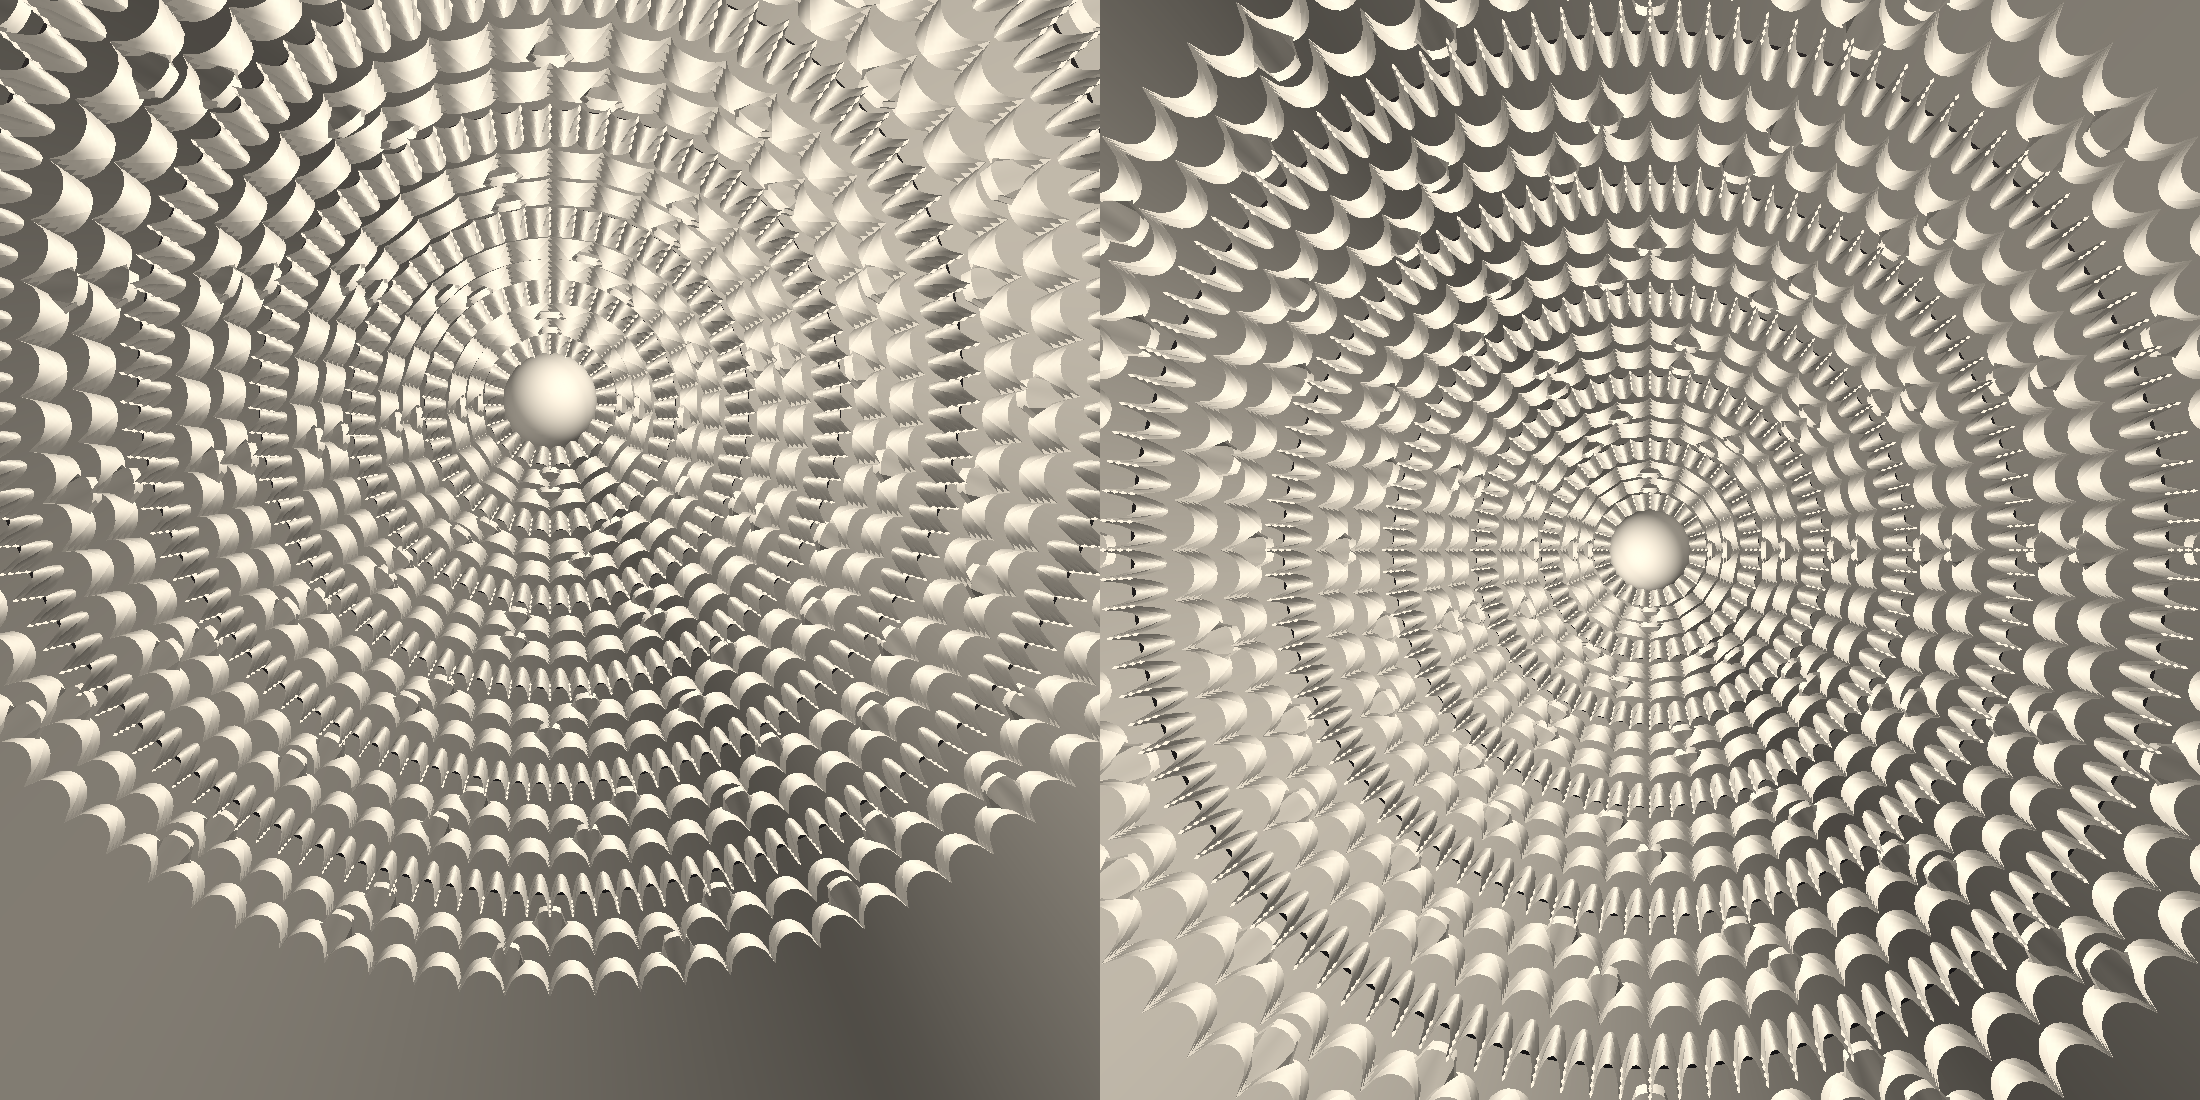
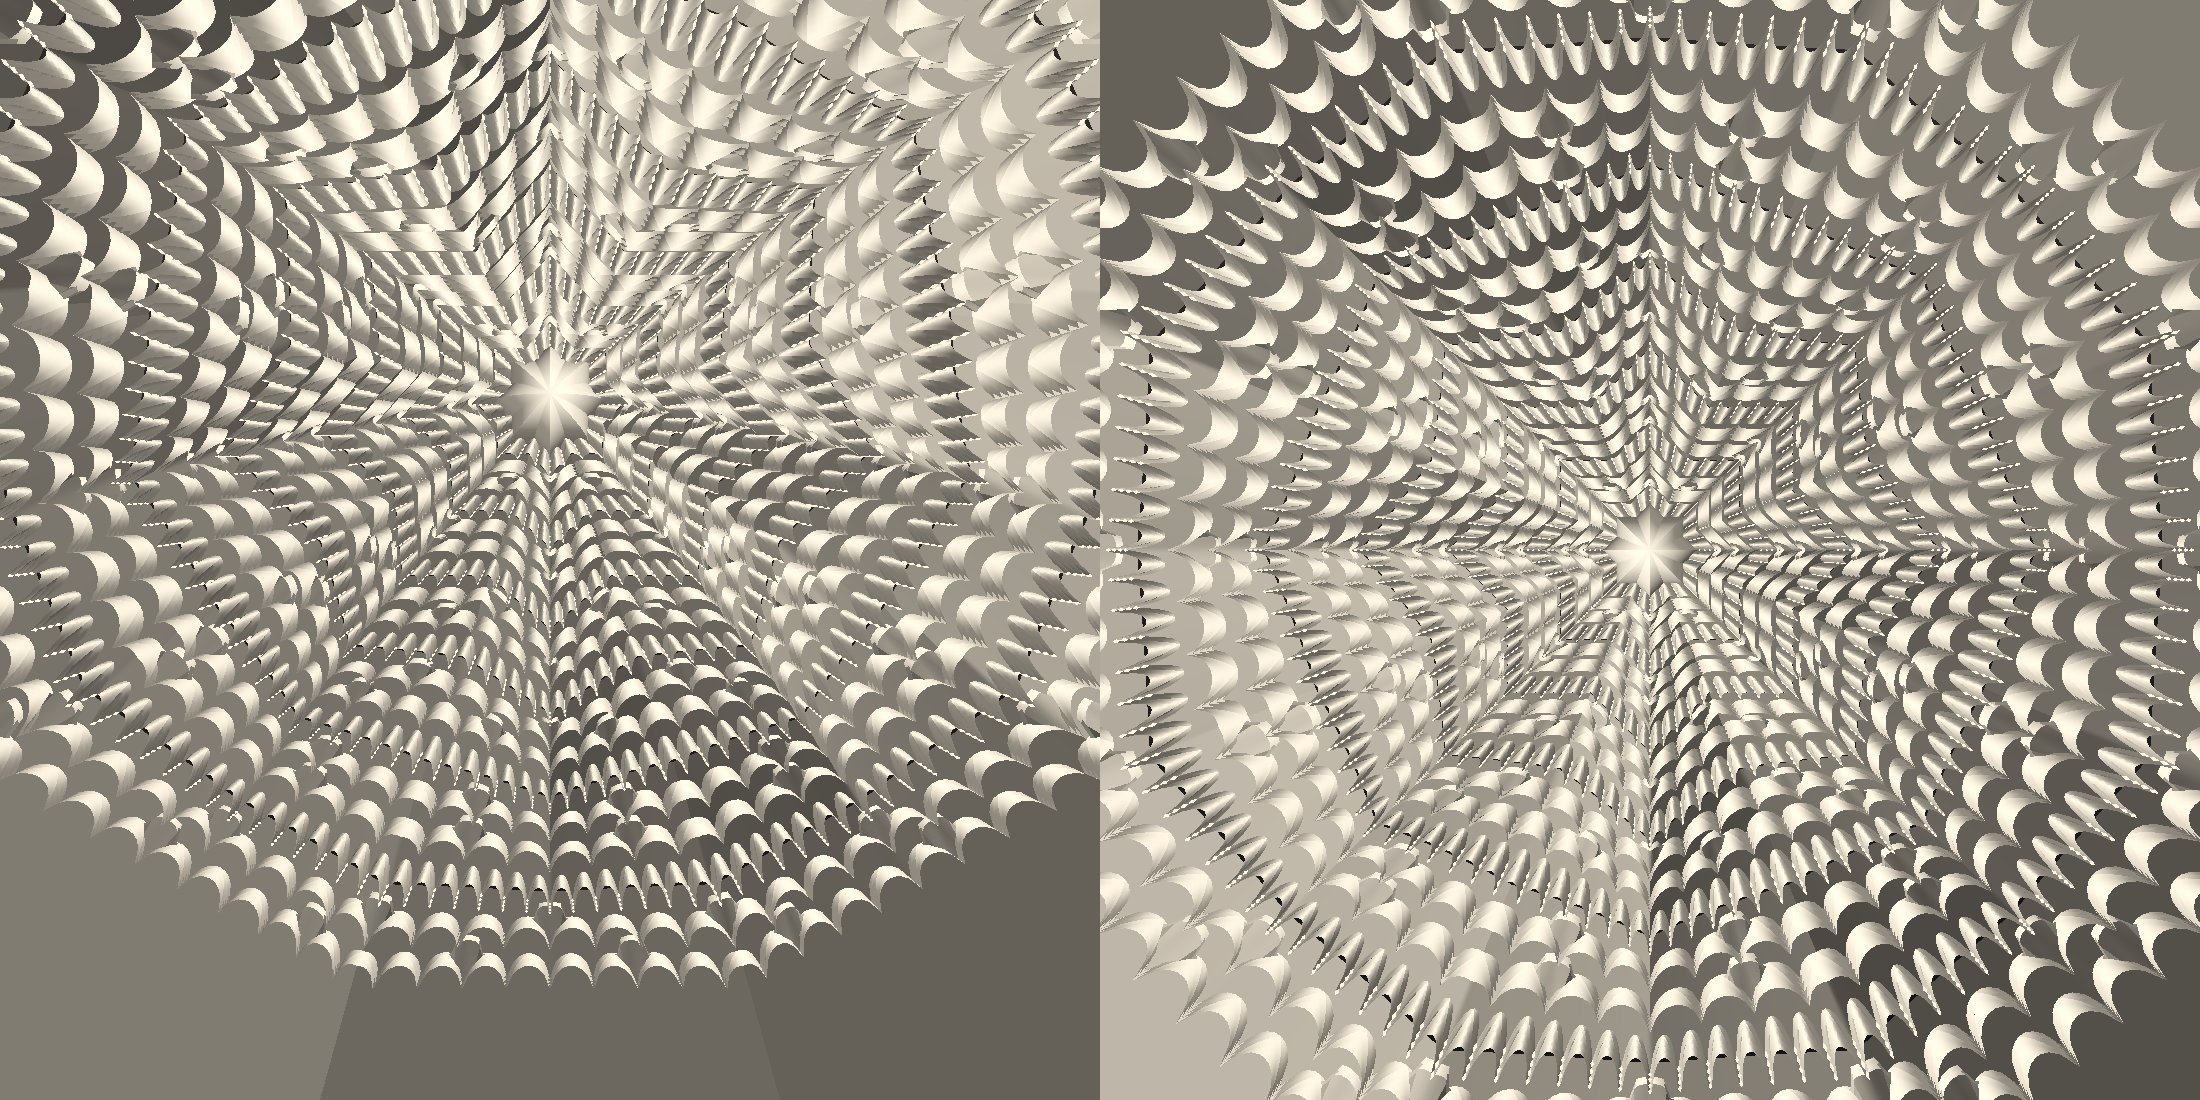
feat(cupula): planta del octogono a la estrella de ocho puntas
Cada hilada sigue el contorno r = F * g(phi, F): octogono de la sala en
el arranque (lados a 0 y 45 grados, ortoimagen AA-415_23) y estrella de
dos cuadrados en el cierre (puntas a 0 y 45, como los 8 medios cuadrados
de docs/teselado.md). La estrella se completa al 60 % del recorrido, a
ojo. Las piezas se colocan en (phi, F), repartidas por longitud de arco
en multiplos de 16, y la trasera de cada hilada sigue cayendo en el
frente de la anterior. Cupulilla y tambor siguen el mismo contorno.

1984 piezas. La forma de las hiladas intermedias no esta leida.

diff --git a/web/piezas.js b/web/piezas.js
@@ -16,7 +16,7 @@ const ESCENAS = {
   },
   cupula: {
     url: "../renders/cupula_piezas.obj",
-    subtitulo: "18 hiladas, 1792 piezas, sobre el cono medido",
+    subtitulo: "18 hiladas, 1984 piezas · del octógono a la estrella de 8 puntas",
     camara: [0, -6, -14], objetivo: [0, 0, 9],
   },
 };

diff --git a/granada/cupula.py b/granada/cupula.py
@@ -25,10 +25,20 @@ Modelo, declarado:
 - **la altura de nivel** de cada hilada es pendiente * fondo de su familia, para
   que el perfil sea el cono medido. La proporcion del grabado (paso 1,6 cateto)
   daria pendiente 2,26; las piezas salen mas bajas que en el dibujo de Jones;
-- en cada hilada el numero de piezas se redondea a multiplo de 8 y las piezas se
+- en cada hilada el numero de piezas se redondea a multiplo de 16 (orden 8 con
+  la alternancia intacta en cada sector) y las piezas se
   estiran a lo ancho lo necesario para cerrar la vuelta (`estiramiento`);
-- las piezas se curvan para seguir el anillo: el frente sobre la circunferencia
-  y la profundidad en radial. El oficio usa piezas rectas;
+- **la planta**: cada hilada sigue el contorno r = F * g(phi, F). En el
+  arranque g es el octogono de la sala (lados planos a 0 y 45 grados, como en la
+  ortoimagen de AA-415_23); en el cierre, la estrella de ocho puntas de dos
+  cuadrados, con las puntas a 0 y 45 grados como los 8 medios cuadrados de la
+  estrella central (`docs/teselado.md`, orbita C8). Entre ambos, mezcla en F
+  que completa la estrella al 60 % del recorrido (`ESTRELLA_COMPLETA`). La forma de las hiladas intermedias **no** esta leida de la cupula;
+- las piezas se colocan en coordenadas (phi, F): el frente sobre su contorno,
+  repartidas por longitud de arco, y la profundidad a lo largo de phi constante.
+  Asi la trasera de cada hilada cae exactamente en el frente de la anterior; a
+  cambio las piezas se tuercen donde el contorno no es perpendicular al radio.
+  El oficio usa piezas rectas;
 - la cupulilla de cierre y el tambor son superficies de relleno.
 """
 
@@ -38,6 +48,8 @@ import json
 import math
 from dataclasses import dataclass
 from pathlib import Path
+
+import numpy as np
 
 from granada.piezas import C22, R2, S22, Punto3, malla, pieza
 
@@ -58,6 +70,67 @@ RADIO_BASE = RADIO_BASE_M / CATETO_M
 
 RADIO_CIERRE = 2.2
 """Por debajo de este radio de frente no se pone otra hilada: se cierra."""
+
+MUESTRAS_CONTORNO = 2880
+
+ESTRELLA_COMPLETA = 0.6
+"""Fraccion del recorrido del arranque al cierre en la que la estrella ya esta
+formada del todo. A ojo sobre la ortoimagen, donde el trazado estrellado ocupa
+mas o menos el 60 % interior. La transicion es un smoothstep."""
+
+
+def _octogono(phi):
+    """Octogono de apotema 1 con lados planos mirando a 0, 45, 90... grados."""
+    u = np.mod(phi + math.pi / 8, math.pi / 4) - math.pi / 8
+    return 1.0 / np.cos(u)
+
+
+def _estrella(phi):
+    """Estrella de ocho puntas: union de dos cuadrados de apotema 1, girados 45
+    grados. Puntas a 0, 45, 90... grados; entrantes a 22,5."""
+    a = 1.0 / np.maximum(np.abs(np.cos(phi)), np.abs(np.sin(phi)))
+    b = 1.0 / np.maximum(np.abs(np.cos(phi - math.pi / 4)), np.abs(np.sin(phi - math.pi / 4)))
+    return np.maximum(a, b)
+
+
+_PHI = np.linspace(0, 2 * math.pi, MUESTRAS_CONTORNO, endpoint=False)
+_MEDIA_OCT = float(_octogono(_PHI).mean())
+_MEDIA_EST = float(_estrella(_PHI).mean())
+
+
+@dataclass(frozen=True)
+class Planta:
+    """Familia de contornos r = F * g(phi, F), con F el radio medio."""
+
+    radio_base: float
+    radio_cierre: float
+    estrella: bool = True
+
+    def mezcla(self, F):
+        if not self.estrella:
+            return np.zeros_like(np.asarray(F, dtype=float))
+        t = (self.radio_base - np.asarray(F, dtype=float)) / (self.radio_base - self.radio_cierre)
+        u = np.clip(t / ESTRELLA_COMPLETA, 0.0, 1.0)
+        return u * u * (3 - 2 * u)
+
+    def forma(self, phi, F):
+        if not self.estrella:
+            return np.ones_like(np.asarray(phi, dtype=float))
+        lam = self.mezcla(F)
+        return (1 - lam) * _octogono(phi) / _MEDIA_OCT + lam * _estrella(phi) / _MEDIA_EST
+
+    def punto(self, phi, F):
+        r = np.asarray(F) * self.forma(phi, F)
+        return r * np.cos(phi), r * np.sin(phi)
+
+    def arco(self, F):
+        """Tabla (longitud acumulada, phi) del contorno F, y su longitud."""
+        phi = np.append(_PHI, 2 * math.pi)
+        x, y = self.punto(phi, np.full_like(phi, F))
+        seg = np.hypot(np.diff(x), np.diff(y))
+        s = np.concatenate([[0.0], np.cumsum(seg)])
+        return s, phi, float(s[-1])
+
 
 SECUENCIA = ("A", "A", "C")
 CADA_A3 = 8
@@ -102,8 +175,16 @@ class Hilada:
         return fuera
 
 
-def plan_de_hiladas(radio_base: float = RADIO_BASE, secuencia=SECUENCIA) -> list[Hilada]:
-    """Radios, cotas y numero de piezas de cada hilada, de abajo arriba."""
+def planta_por_defecto(radio_base: float = RADIO_BASE, estrella: bool = True) -> Planta:
+    """La planta cuyo cierre es la ultima hilada que cabe con `RADIO_CIERRE`."""
+    circulo = plan_de_hiladas(radio_base, planta=Planta(radio_base, RADIO_CIERRE, False))
+    return Planta(radio_base, circulo[-1].radio_frente, estrella)
+
+
+def plan_de_hiladas(radio_base: float = RADIO_BASE, secuencia=SECUENCIA, planta: Planta | None = None) -> list[Hilada]:
+    """Radios medios, cotas y numero de piezas de cada hilada, de abajo arriba."""
+    if planta is None:
+        planta = planta_por_defecto(radio_base)
     hiladas = []
     cota = 0.0
     trasera = radio_base
@@ -114,8 +195,8 @@ def plan_de_hiladas(radio_base: float = RADIO_BASE, secuencia=SECUENCIA) -> list
         radio = trasera - f.fondo
         if radio < RADIO_CIERRE:
             break
-        exacto = 2 * math.pi * radio / f.paso_tangencial
-        n = max(8, 8 * round(exacto / 8))
+        exacto = planta.arco(radio)[2] / f.paso_tangencial
+        n = max(16, 16 * round(exacto / 16))
         paso = PENDIENTE * f.fondo
         hiladas.append(Hilada(k, nombre, radio, cota, paso, n, exacto / n))
         cota += paso
@@ -138,19 +219,35 @@ def doblar(V, angulo: float, radio: float, estiramiento: float, cota: float) -> 
     return fuera
 
 
-def _cupulilla(radio: float, cota: float, paso: float, n: int = 96, m: int = 16):
-    """Casquete que cierra el hueco central, abierto hacia abajo."""
+def en_contorno(V, planta: Planta, radio: float, arco, inicio: float, estiramiento: float, cota: float):
+    """Del marco local de la pieza a la hilada de radio medio `radio`.
+
+    x pasa a longitud de arco sobre el contorno desde `inicio`; y (hacia el
+    frente) a F = radio - y, con phi constante; z sube `cota`.
+    """
+    s_tabla, phi_tabla, largo = arco
+    P = np.asarray(V, dtype=float)
+    s = np.mod(inicio + P[:, 0] * estiramiento, largo)
+    phi = np.interp(s, s_tabla, phi_tabla)
+    F = radio - P[:, 1]
+    x, y = planta.punto(phi, F)
+    return list(zip(x.tolist(), y.tolist(), (P[:, 2] + cota).tolist()))
+
+
+def _cupulilla(planta: Planta, radio: float, cota: float, paso: float, n: int = 192, m: int = 16):
+    """Casquete con la planta del ultimo contorno, abierto hacia abajo."""
     V: list[Punto3] = []
     F = []
     arranque = cota + paso * 0.875
     alto = 0.9 * radio
+    phi = 2 * math.pi * np.arange(n) / n
+    borde = radio * planta.forma(phi, np.full(n, radio))
     for j in range(m + 1):
         t = j / m * math.pi / 2
-        r = radio * math.cos(t)
         z = arranque + alto * math.sin(t)
         for i in range(n):
-            a = 2 * math.pi * i / n
-            V.append((r * math.cos(a), r * math.sin(a), z))
+            r = borde[i] * math.cos(t)
+            V.append((r * math.cos(phi[i]), r * math.sin(phi[i]), z))
     for j in range(m):
         for i in range(n):
             a, b = j * n + i, j * n + (i + 1) % n
@@ -160,13 +257,15 @@ def _cupulilla(radio: float, cota: float, paso: float, n: int = 96, m: int = 16)
     return V, F
 
 
-def _tambor(radio: float, abajo: float, arriba: float, n: int = 192):
+def _tambor(planta: Planta, radio: float, abajo: float, arriba: float, n: int = 384):
+    """Muro vertical sobre el contorno de arranque."""
     V: list[Punto3] = []
     F = []
+    phi = 2 * math.pi * np.arange(n) / n
+    x, y = planta.punto(phi, np.full(n, radio))
     for i in range(n):
-        a = 2 * math.pi * i / n
-        V.append((radio * math.cos(a), radio * math.sin(a), abajo))
-        V.append((radio * math.cos(a), radio * math.sin(a), arriba))
+        V.append((float(x[i]), float(y[i]), abajo))
+        V.append((float(x[i]), float(y[i]), arriba))
     for i in range(n):
         a, b = 2 * i, 2 * ((i + 1) % n)
         F.append((a, b, b + 1))
@@ -174,28 +273,30 @@ def _tambor(radio: float, abajo: float, arriba: float, n: int = 192):
     return V, F
 
 
-def cupula(subdivision: int = 8, radio_base: float = RADIO_BASE):
+def cupula(subdivision: int = 8, radio_base: float = RADIO_BASE, estrella: bool = True):
     """Grupos (nombre, V, F): una por hilada, la cupulilla y el tambor."""
-    hiladas = plan_de_hiladas(radio_base)
+    planta = planta_por_defecto(radio_base, estrella)
+    hiladas = plan_de_hiladas(radio_base, planta=planta)
     plantillas: dict[tuple[str, float], tuple] = {}
     grupos = []
     for h in hiladas:
         V: list[Punto3] = []
         F = []
         paso_t = FAMILIAS[h.familia].paso_tangencial
+        arco = planta.arco(h.radio_frente)
         for i, tipo in enumerate(h.tipos()):
             clave = (tipo, h.paso)
             if clave not in plantillas:
                 plantillas[clave] = malla(pieza(tipo, h.paso), subdivision)
             Vp, Fp = plantillas[clave]
-            angulo = i * paso_t * h.estiramiento / h.radio_frente
+            inicio = i * paso_t * h.estiramiento
             base = len(V)
-            V.extend(doblar(Vp, angulo, h.radio_frente, h.estiramiento, h.cota))
+            V.extend(en_contorno(Vp, planta, h.radio_frente, arco, inicio, h.estiramiento, h.cota))
             F.extend((a + base, b + base, c + base) for a, b, c in Fp)
         grupos.append((f"hilada_{h.indice:02d}_{h.familia}", V, F))
     ultima = hiladas[-1]
-    grupos.append(("cupulilla", *_cupulilla(ultima.radio_frente, ultima.cota, ultima.paso)))
+    grupos.append(("cupulilla", *_cupulilla(planta, ultima.radio_frente, ultima.cota, ultima.paso)))
     # El tambor sube hasta la tapa de la primera hilada: si acabara en su
     # arranque, por las celdillas de esa hilada se veria el vacio.
-    grupos.append(("tambor", *_tambor(radio_base, -6.0, 2 * hiladas[0].paso)))
+    grupos.append(("tambor", *_tambor(planta, radio_base, -6.0, 2 * hiladas[0].paso)))
     return hiladas, grupos

diff --git a/tests/test_cupula_piezas.py b/tests/test_cupula_piezas.py
@@ -6,6 +6,7 @@ import pytest
 
 from granada.cupula import (
     FAMILIAS, PENDIENTE, RADIO_BASE, RADIO_CIERRE, cupula, doblar, plan_de_hiladas,
+    planta_por_defecto,
 )
 
 
@@ -33,12 +34,37 @@ def test_el_perfil_es_el_cono_medido(plan):
 
 
 def test_cada_vuelta_cierra_con_poco_estiramiento(plan):
+    """Multiplo de 16 para el orden 8; en las hiladas pequenas el salto de 16
+    piezas obliga a estirar hasta un 20 %."""
+    planta = planta_por_defecto()
     for h in plan:
-        assert h.piezas % 8 == 0
+        assert h.piezas % 16 == 0
         f = FAMILIAS[h.familia]
-        assert h.piezas * f.paso_tangencial * h.estiramiento == pytest.approx(2 * math.pi * h.radio_frente)
-        assert 0.85 < h.estiramiento < 1.15
+        largo = planta.arco(h.radio_frente)[2]
+        assert h.piezas * f.paso_tangencial * h.estiramiento == pytest.approx(largo)
+        assert 0.8 < h.estiramiento < 1.2
     assert plan[-1].radio_frente >= RADIO_CIERRE
+
+
+def test_la_planta_va_del_octogono_a_la_estrella():
+    planta = planta_por_defecto()
+    eje, diagonal_oct = 0.0, math.pi / 8
+    base, cierre = planta.radio_base, planta.radio_cierre
+    # arranque: octogono, lado plano a 0 grados y vertice a 22,5
+    assert planta.forma(eje, base) < planta.forma(diagonal_oct, base)
+    # cierre: estrella, punta a 0 y 45 grados, entrante a 22,5
+    assert planta.forma(eje, cierre) > planta.forma(diagonal_oct, cierre)
+    assert planta.forma(math.pi / 4, cierre) == pytest.approx(planta.forma(eje, cierre))
+    assert planta.forma(eje, cierre) / planta.forma(diagonal_oct, cierre) == pytest.approx(
+        math.sqrt(2) * math.cos(math.pi / 8))
+
+
+def test_en_contorno_respeta_el_orden_8():
+    planta = planta_por_defecto()
+    F = 6.0
+    a = planta.punto(0.3, F)
+    b = planta.punto(0.3 + math.pi / 4, F)
+    assert math.hypot(*a) == pytest.approx(math.hypot(*b))
 
 
 def test_doblar_pone_el_frente_en_el_radio_y_la_trasera_detras():
